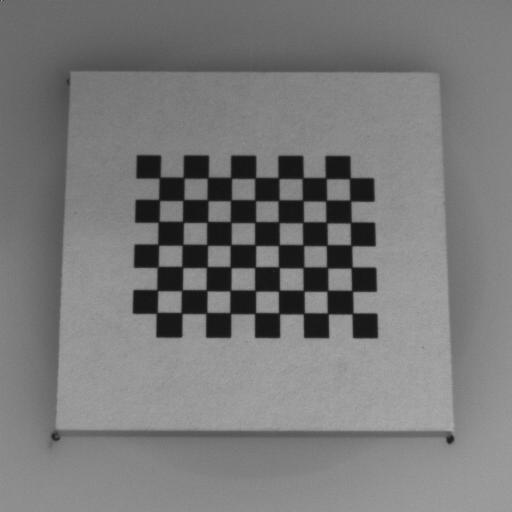
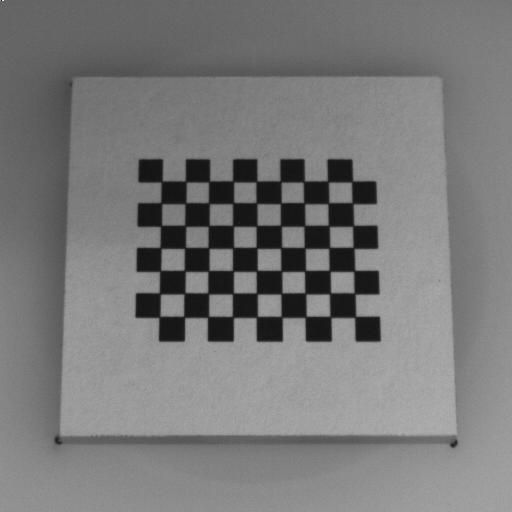
new camera projection matrix and minor fix to projection calculation code

Changed region(s): [[0.25, 0.2812, 0.75, 0.6875], [0.0938, 0.125, 0.9062, 0.875], [0.8438, 0.375, 0.875, 0.4688]]

diff --git a/flybam/flybam/flybam.cpp b/flybam/flybam/flybam.cpp
@@ -249,7 +249,7 @@ int _tmain(int argc, _TCHAR* argv[])
 		
 		// fly feature detection and position update
 		imshow("fly image", fly_frame);
-		imshow("fly mask", fly_mask);
+		//imshow("fly mask", fly_mask);
 
 		// if no fly detected, switch back to arena view to get coarse fly location and position update
 		//if (flyEllipse.size.area() == 0)
@@ -281,7 +281,7 @@ int _tmain(int argc, _TCHAR* argv[])
 			}
 
 			imshow("arena image", arena_frame);
-			imshow("arena mask", arena_mask);
+			//imshow("arena mask", arena_mask);
 
 		//}
 

diff --git a/projection/projection/projection.cpp b/projection/projection/projection.cpp
@@ -64,7 +64,7 @@ int _tmain(int argc, _TCHAR* argv[])
 
 	fs.release();
 
-	Size cbSize = Size(boardHeight, boardWidth);
+	Size cbSize = Size(boardWidth, boardHeight);
 
 	bool found = findChessboardCorners(img, cbSize, imagePoints, CALIB_CB_FAST_CHECK);
 
